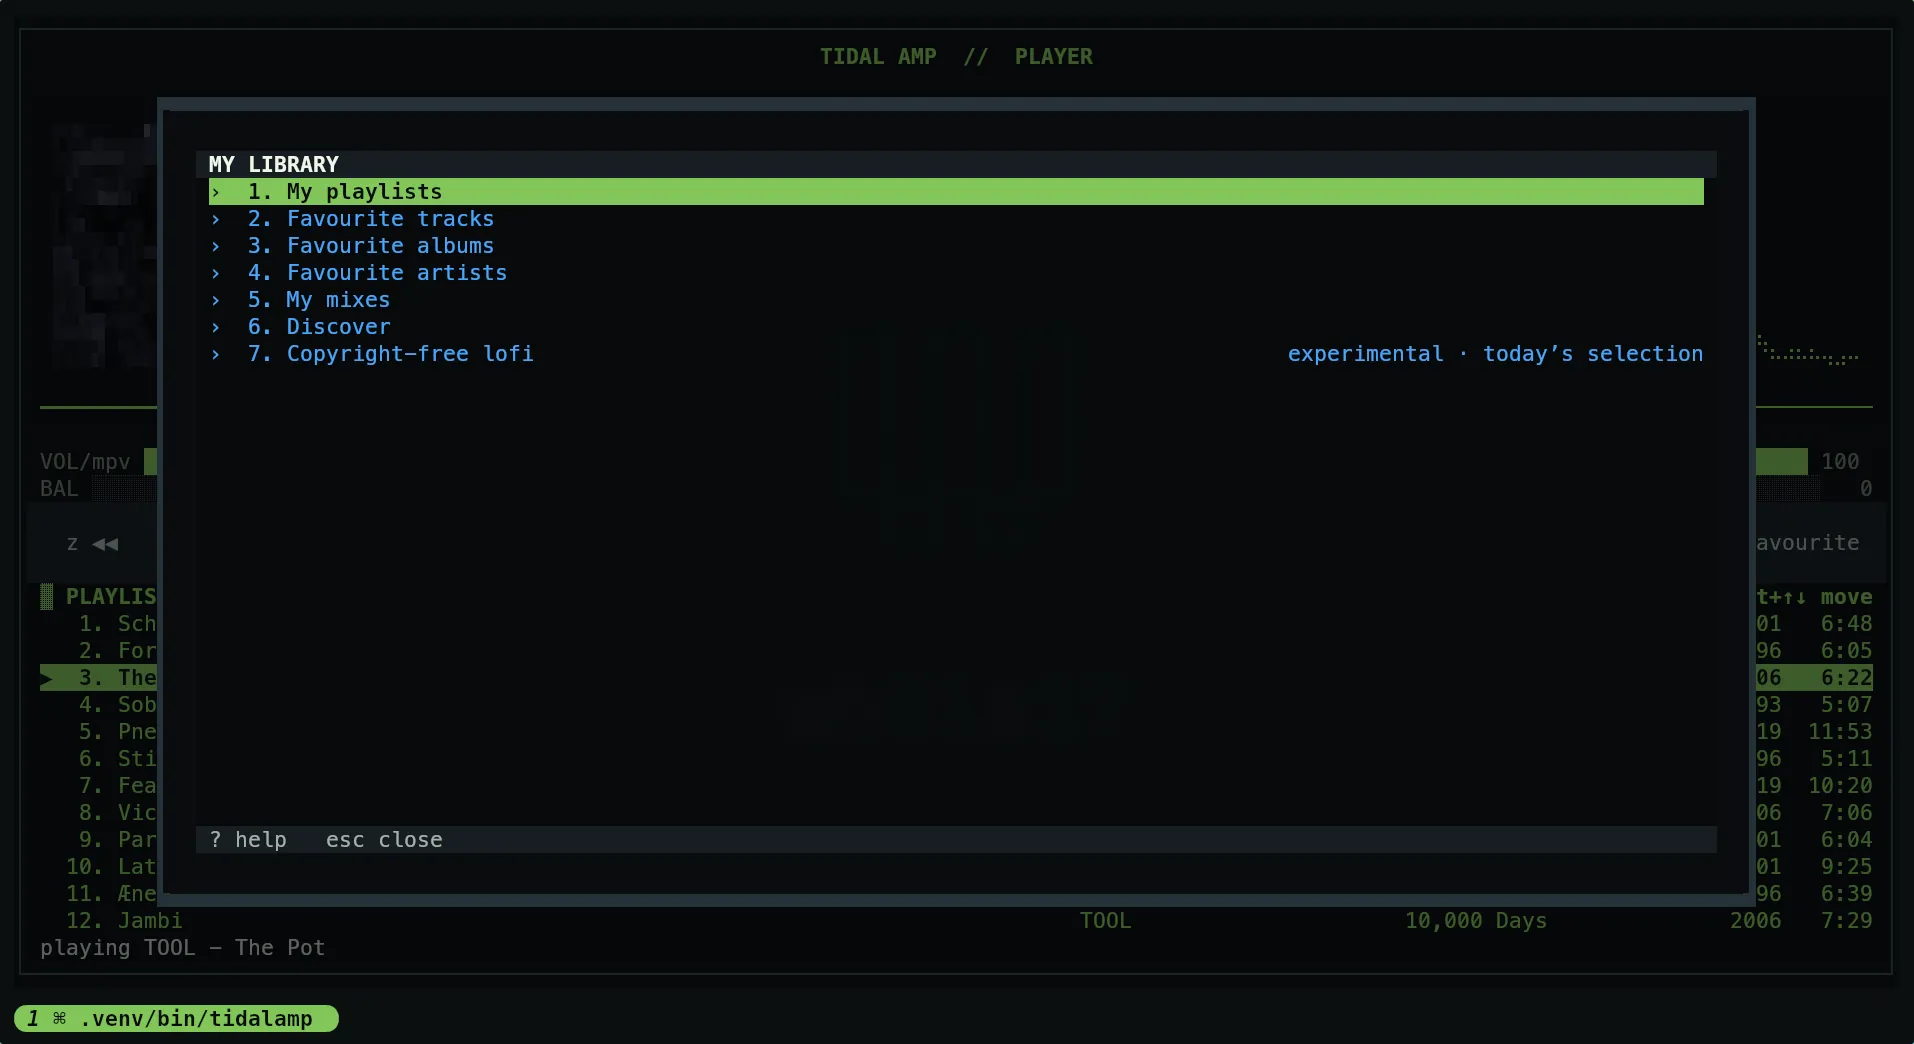
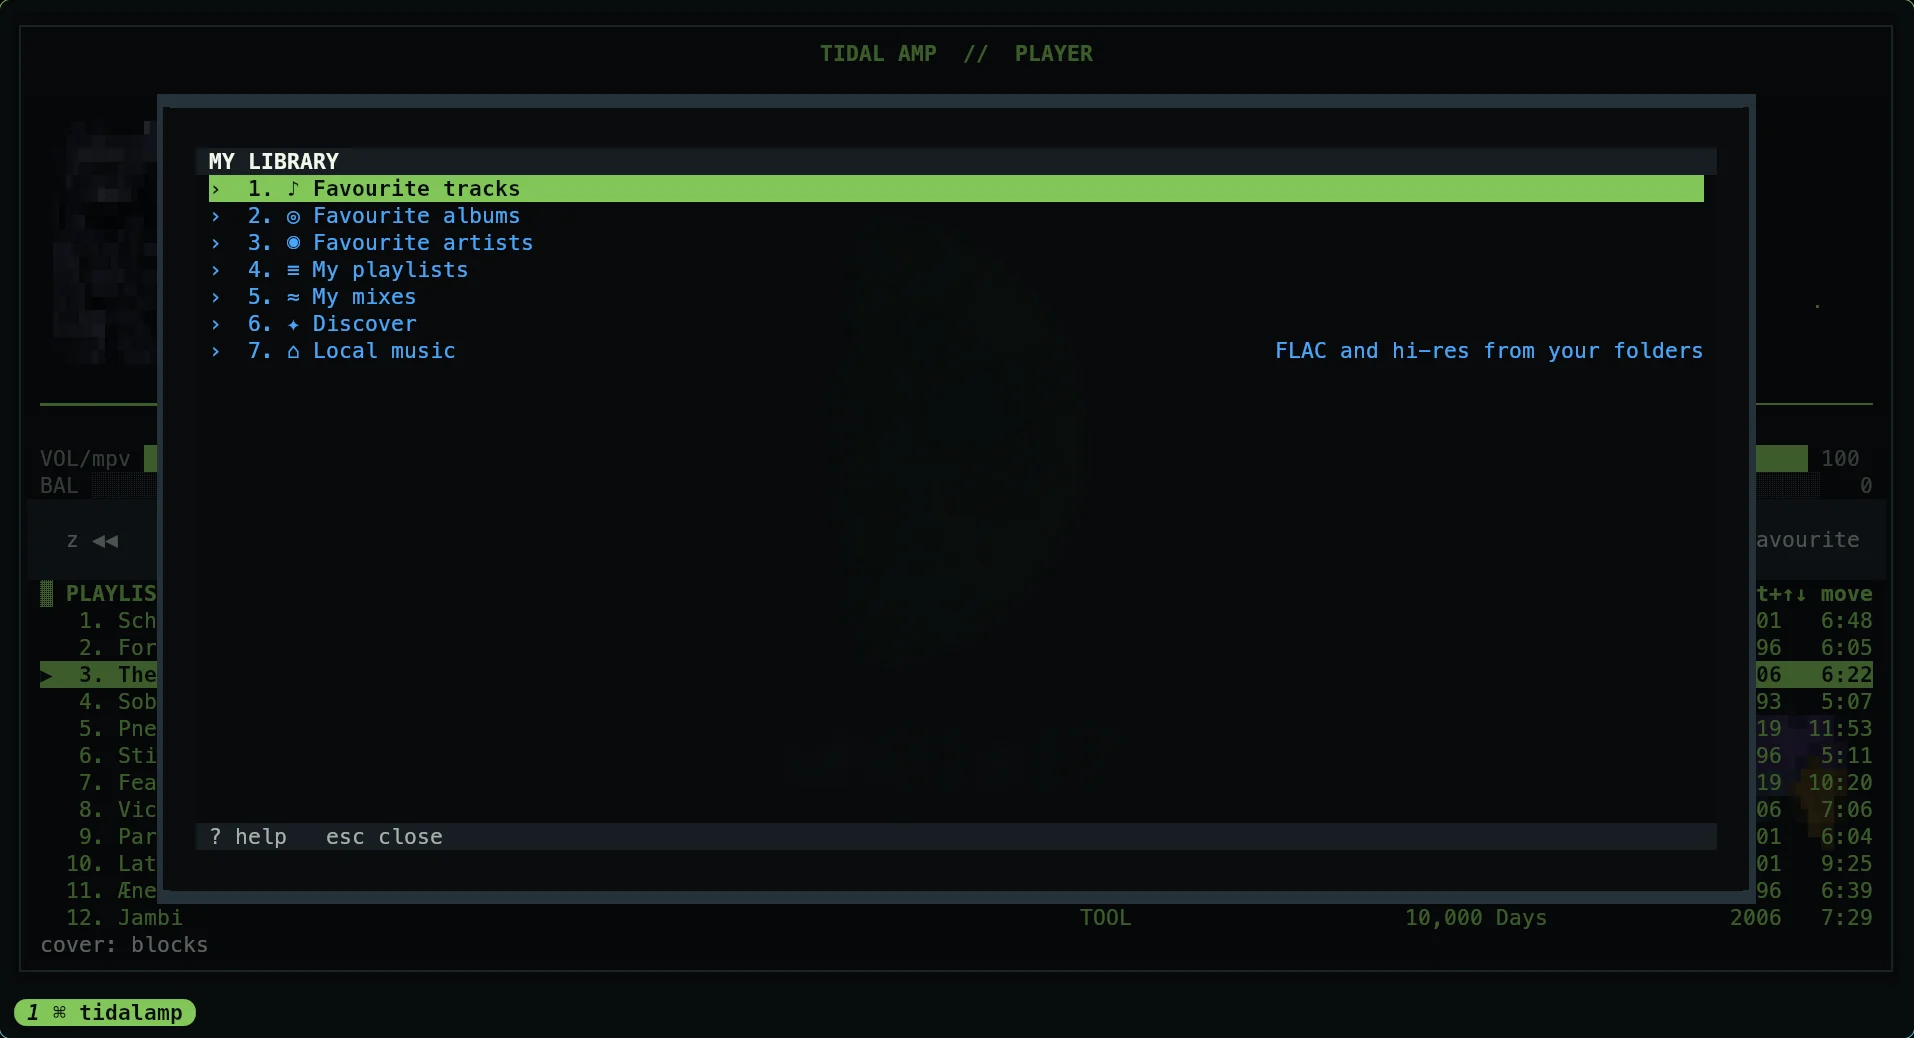
docs: refresh the library screenshot and the docs

diff --git a/plan.md b/plan.md
@@ -606,7 +606,9 @@ separación: es lo que permitiría añadir otro frontend (ver §6).
       forma emoji (la lección de `⏸`, §4 «Barra de transporte»), y no Nerd Font: la
       app no la exige en ningún otro sitio. `RowList._line` lo dibuja entre el número
       y la etiqueta; la etiqueta no cambia, así que el filtro `/` y el título del
-      nivel siguen leyendo el texto de siempre.
+      nivel siguen leyendo el texto de siempre. Visto por el mantenedor en su
+      terminal (2026-11-25): siete glifos de una celda, ninguno como emoji, y esa
+      captura es la nueva `img/library.webp` del README.
 - [x] Drill-down perezoso: cada nivel se pide sólo al abrirlo, en un hilo.
 - [x] La búsqueda reutiliza la misma estructura de `Row` que la biblioteca.
 - [x] Paginación: `_paged()` pide `PAGE` (100) elementos y cuelga una fila `más…` al
@@ -2396,8 +2398,8 @@ efecto las tres trampas que lo hacían caro:
       Leonel García no aparecía en ningún sitio. Ahora `_artist_names` junta el
       principal y `track.artists`, separados por «, », el principal primero y cada
       nombre una vez (TIDAL repite el principal dentro de `artists`). Es el mismo
-      `artist`, así que la cola, el bloque bajo el reloj, la pantalla completa, MPRIS,
-      los créditos y el orden por artista lo leen sin tocar nada. Una cola guardada
+      `artist`, así que la cola, el bloque bajo el reloj, la pantalla completa, MPRIS
+      y el orden por artista lo leen sin tocar nada. Una cola guardada
       antes se queda con el principal hasta que la pista se vuelve a cargar.
 - [x] **La celda del artista se desliza** cuando no cabe, también en la cola del
       reproductor: `set_glide(names=False)` enciende el temporizador sólo para esa
@@ -2526,8 +2528,8 @@ siguiente gran cambio»): sin panel de fuentes ni costura `Source`.
   música» abre la lista: «+ añadir una carpeta…» pide la ruta (con `~`), y ↵ sobre
   una la quita.
 - [x] **Fila de la cola:** `Entry.source = "local"`, `url` es la ruta e `id` es
-  negativo derivado de ella (`-crc32("local:" + ruta)`), como en las libres. Sin
-  radio, favoritos, playlists, letras ni créditos: el menú sólo ofrece reproducir y
+  negativo derivado de ella (`-crc32("local:" + ruta)`), para que nunca coincida con
+  uno de TIDAL. Sin radio, favoritos, playlists ni letras: el menú sólo ofrece reproducir y
   a continuación. MPRIS recibe la ruta como `file://`.
 - [ ] Selector de carpetas en la TUI, playlists `.m3u8`, letras `.lrc`/embebidas y
   la prueba en Windows: `next.md`, «Música local».
@@ -2703,7 +2705,6 @@ Distinguir esto importa: parte del código nunca se ha ejecutado contra TIDAL re
 | Carátula                           | **VERIFICADO A LA VISTA**     | Capturas del usuario en kitty, dos veces: la portada de Thriller se dibuja con el protocolo gráfico en su recuadro, a la izquierda del reloj, sin invadir el marquee ni el analizador, y con el recuadro ya adaptativo. Unidades sobre los tres codificadores, incluida una vuelta completa de sixel a píxeles; la app real bajo un pty con `TERM=xterm-kitty` emite el APC gráfico anclado en la esquina del widget, y en medios bloques pyte muestra el recuadro con el resto del display intacto. |
 | La cola de pantalla completa se desliza | **VERIFICADO POR EL USUARIO** | El mantenedor la miró en `w` con `tab` y una cola de nombres largos (2026-09-23): el ritmo de 0,3 s por celda se lee. Las celdas, lo que no se mueve y el ancho van por tests. |
 | Una carga que falla                | **VERIFICADO DE PUNTA A PUNTA**   | mpv de verdad contra un servidor local que devuelve 500 la primera vez y audio la segunda: la carga falla a 1,5 s sin que salga una muestra, el reintento la recupera y suena. Antes, idle sin haber abierto se leía como «la pista acabó» y se saltaba en silencio. Seis tests cubren el reintento, el salto con su nombre, que una pista que sí sonó no se reintente, y que el contador se limpie también en el salto sin corte. |
-| Créditos y atribución              | **Verificado**                    | Renderizado con pistas reales de las dos fuentes: título, autor, fuente y licencia (TASL), lo que exige esa licencia en concreto, y la cita montada. La fuente es la página de la obra y no el fichero. 20 tests, incluido el que caza que la ventana **no se podía cerrar** (un `Binding` a una acción que no existía) y el que ata las letras del menú. |
 | Indicador de carga y barra de estado | **Verificado**                  | Unitarias del `Spinner` y de los tres momentos del navegador (raíz, abrir un nivel, volver atrás) con un loader bloqueado a propósito; la app real bajo pty midió `#statusbar` dentro de la pantalla y pintó `⠦ resolviendo «Schism»…` en la última fila. |
 | «Mis playlists» y caché de niveles | **Verificado contra TIDAL real**  | cProfile sobre la cuenta del usuario localizó las 111 peticiones; tras el cambio, la app real bajo un pty abre «Mis playlists» en 0,39 s (antes 19,87 s) y en 0,13 s la segunda vez. Unitarias: una petición por página, paginación, claves de caché y `R`. |
 | Secciones del artista              | **VERIFICADO CONTRA TIDAL REAL**  | El mantenedor lo probó a mano (2026-09-14) con varios artistas: uno grande, uno pequeño sin EPs (bôa, sin «Otros») y uno con recopilatorios. Salen las secciones esperadas y ninguna vacía; álbumes y EPs traen sus pistas; «más…» aparece en un artista con más de 100 discos; el tiempo de apertura con las cuatro peticiones de sondeo es aceptable. `m` y `a` sobre el artista añaden sus populares, `s` ordena las populares y no hace nada en los discos, y `f` lo añade a favoritos. En tests: sesión simulada con álbumes, EPs y nada en «otros». |

diff --git a/README.md b/README.md
@@ -312,7 +312,7 @@ with `↵` and go back with `⌫`. A mix opens like a playlist, but it cannot be
 `d` do nothing there.
 
 <p align="center">
-  <img src="https://raw.githubusercontent.com/wh01s17/tidalamp/main/img/library.webp?v=0.25.0" alt="The library browser open over the player: My library, with my playlists, favourite tracks, albums and artists, my mixes, Discover, and Copyright-free lofi, marked experimental and today's selection" width="880">
+  <img src="https://raw.githubusercontent.com/wh01s17/tidalamp/main/img/library.webp?v=0.25.0-2" alt="The library browser open over the player: My library, each row with its icon — favourite tracks, albums and artists, my playlists, my mixes, Discover, and local music, FLAC and hi-res from your folders" width="880">
 </p>
 
 An artist opens to its sections: popular tracks, albums, EPs and singles, and other

diff --git a/next.md b/next.md
@@ -283,6 +283,8 @@ No se borran: quedan escritos con el motivo para no volver a discutirlos desde c
   ISRC con TIDAL o con lo local, o manejar un dispositivo Spotify Connect, con el audio
   fuera de mpv: sin rates, ecualizador, cava ni gapless. El mantenedor lo descartó.
 
+- *Las dos entradas siguientes quedan como registro: «Lofi sin copyright» se retiró en
+  la `0.25.0` (`plan.md` §4, «Lofi sin copyright: retirada»).*
 - **Emisoras lofi en vivo** (2026-09-20), de Radio Browser, como segunda fila de
   «Lofi sin copyright». La API responde sin clave y tiene emisoras lofi de sobra, pero
   no hay forma de verificar qué emiten, así que la fila dejaría de merecer su nombre.

diff --git a/windows.md b/windows.md
@@ -178,8 +178,8 @@ Estado a la v0.15.0.
 
 Módulos que **no** hay que tocar: `library.py`, `queue.py`, `net.py`, `lyrics.py`,
 `analyzer.py`, `settings.py`, `widgets.py`, `layouts.py`, `scrolling.py`, `columns.py`,
-`about.py`, `archive.py`, `music.py`, `freemusic.py`, `jamendo.py` y todo `screens/`
-salvo `config_window.py`. Se ha comprobado con grep que ninguno usa sockets, `chmod`,
+`about.py` y todo `screens/` salvo `config_window.py` (los cuatro módulos de «Lofi sin
+copyright» que también estaban en esta lista se retiraron en la `0.25.0`). Se ha comprobado con grep que ninguno usa sockets, `chmod`,
 `/proc`, `/etc`, XDG, señales ni subprocesos.
 
 ---

diff --git a/publish.md b/publish.md
@@ -14,7 +14,7 @@ calcula el checksum y, cuando vuelva a ser posible obtener una cuenta, se public
 paquete en el AUR.
 
 > [!IMPORTANT]
-> **Estado a 2026-10-19:** la versión `0.23.1` está publicada en PyPI mediante
+> **Estado a 2026-11-25:** la versión `0.25.0` está publicada en PyPI mediante
 > Trusted Publishing y en GitHub Releases, con el ZIP de Windows y su SHA-256.
 > El environment `pypi` de GitHub existe y el publisher de PyPI ya
 > no está pendiente: se convirtió en uno normal con la primera publicación, así que
